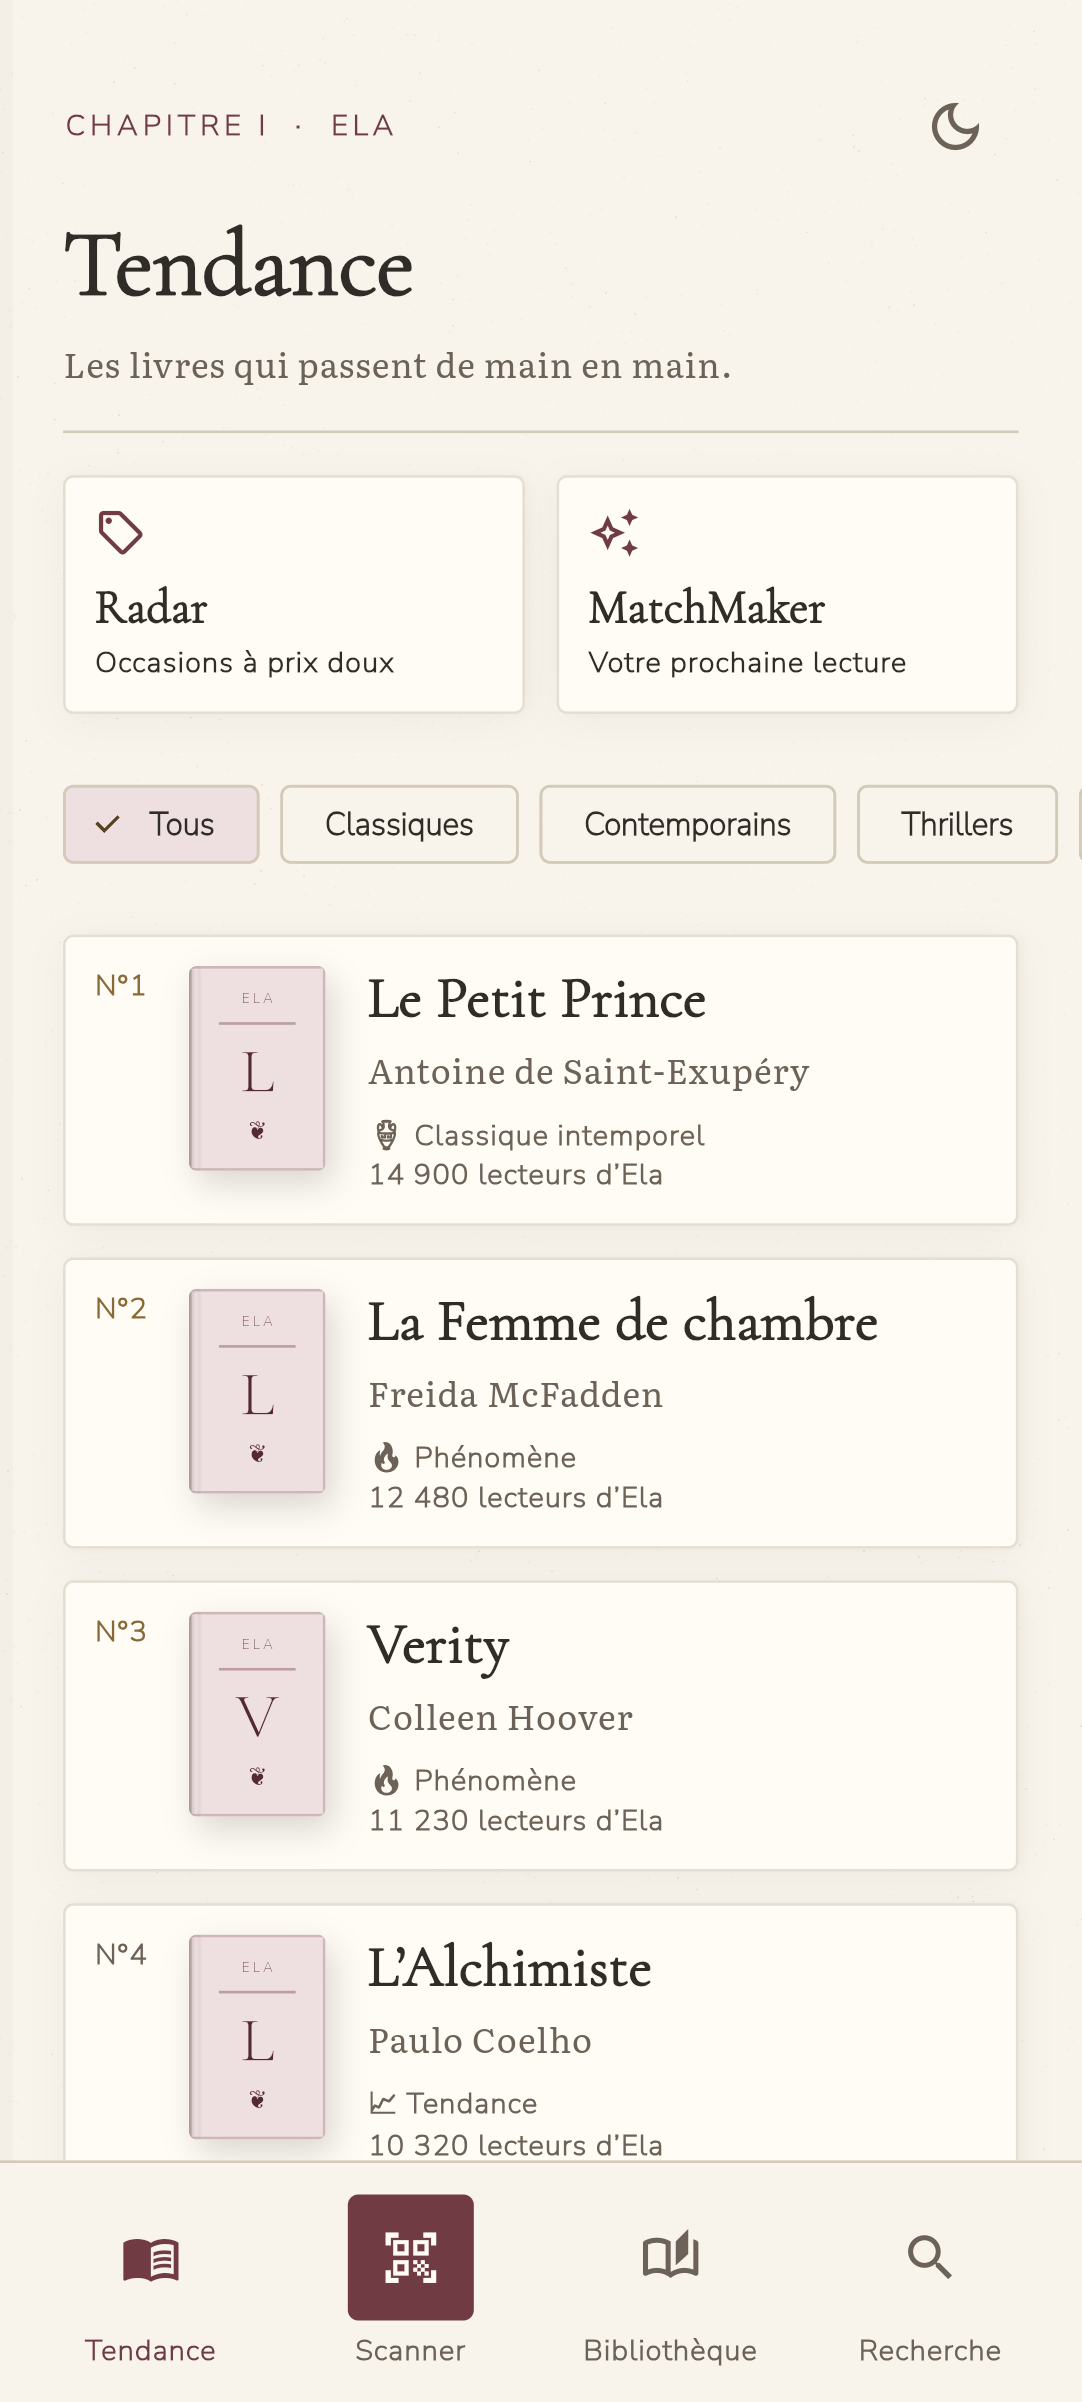
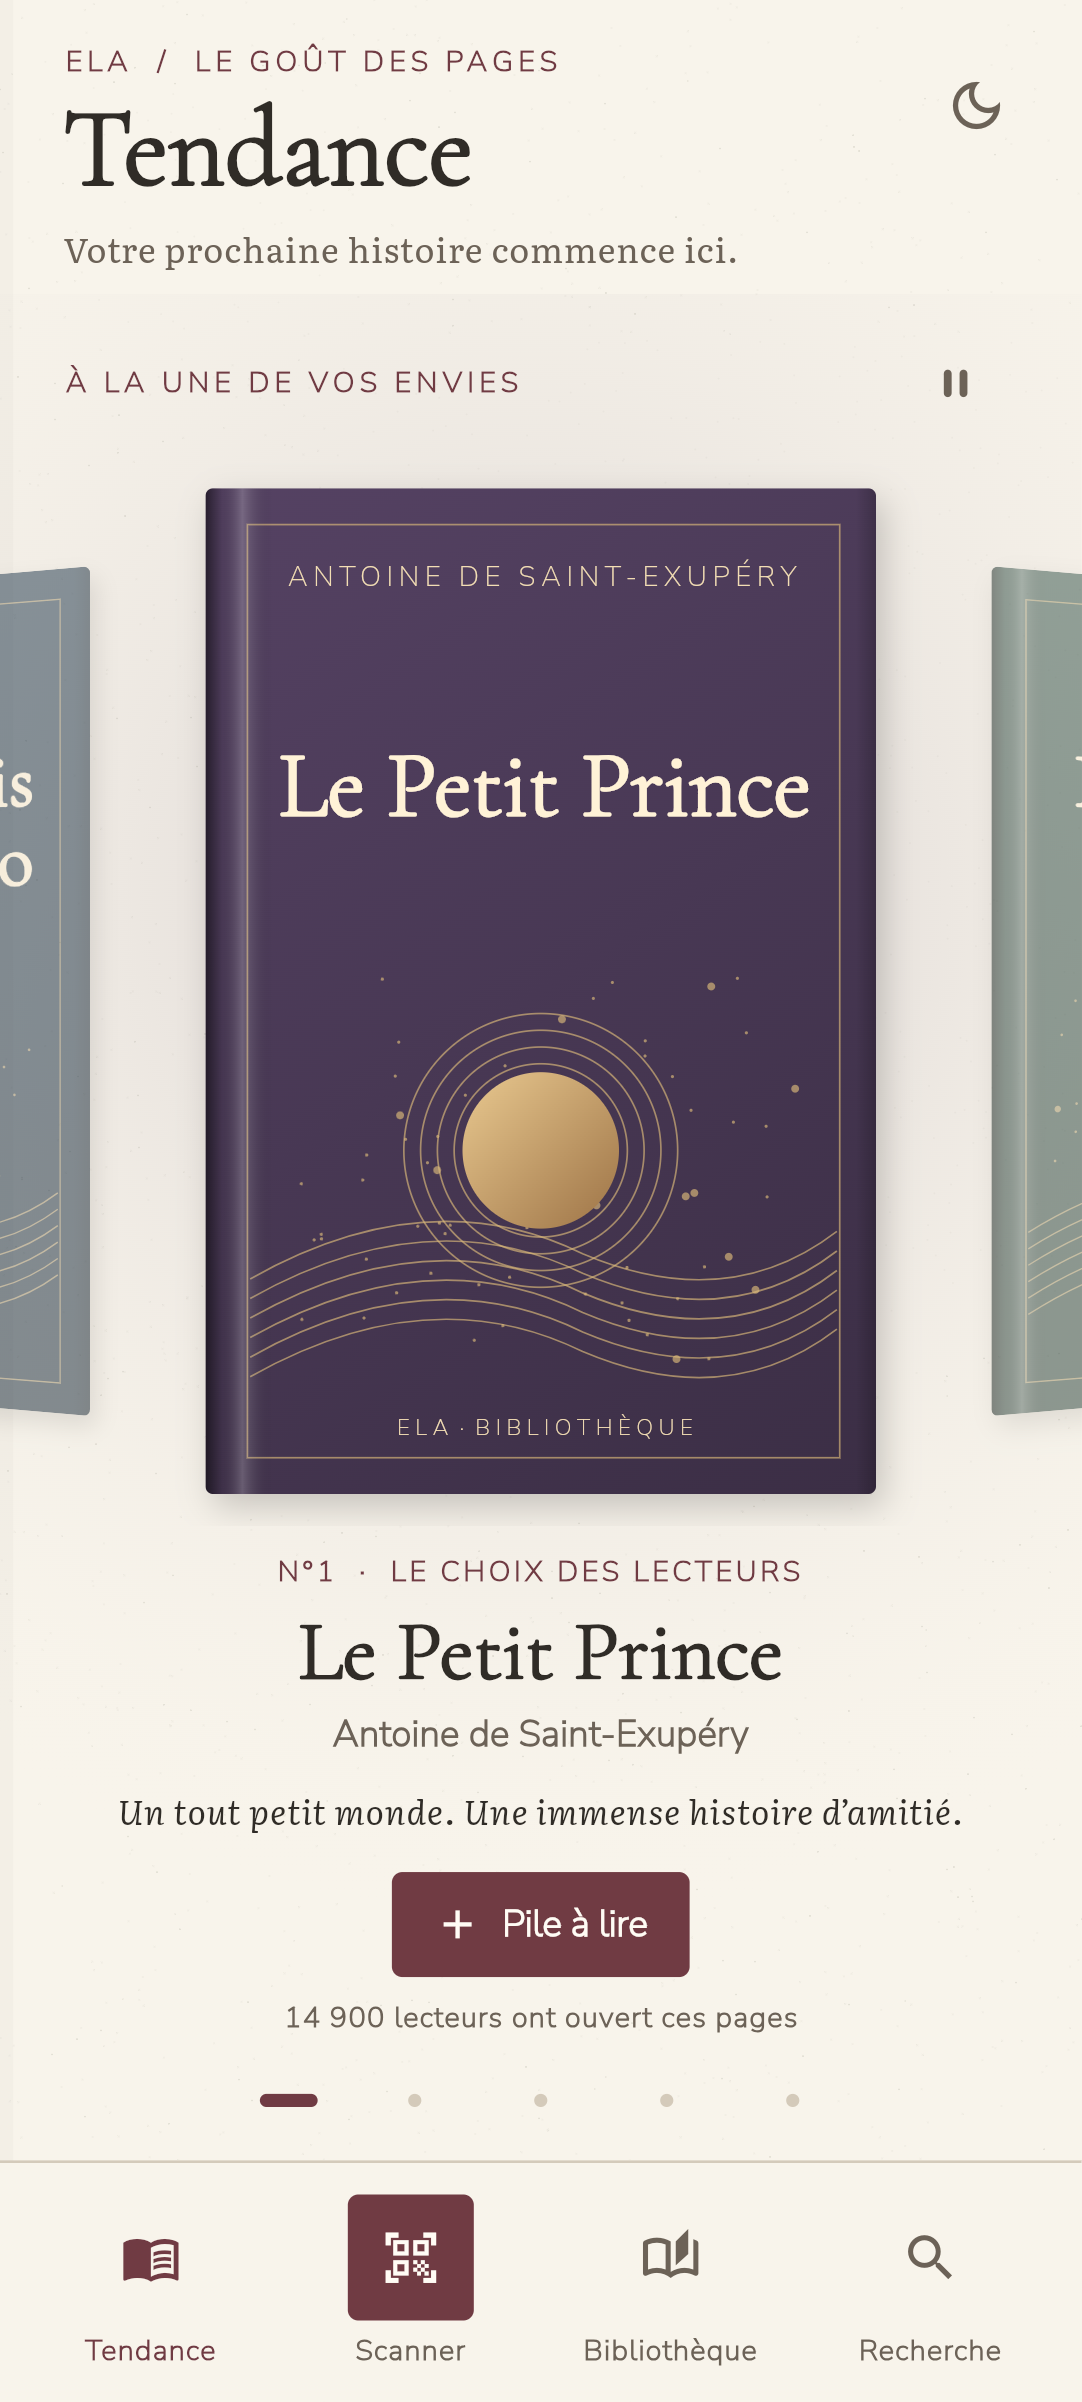
docs(tendance): deliver before-after captures and validate served web release

diff --git a/tools/screens/tendance_sheet.py b/tools/screens/tendance_sheet.py
@@ -1,0 +1,38 @@
+"""Planches des captures Flutter, sans retouche du contenu de l'interface."""
+from pathlib import Path
+from PIL import Image, ImageDraw, ImageFont
+
+ROOT = Path(__file__).resolve().parents[2]
+SCREENS = ROOT / 'docs/screens/tendance'
+FONT = str(ROOT / 'assets/fonts/NunitoSans.ttf')
+PAPER = '#f4efe4'
+INK = '#542a32'
+
+
+def sheet(cells, columns, width, destination):
+    font = ImageFont.truetype(FONT, 20)
+    height = round(width * 915 / 412)
+    margin, caption = 20, 48
+    rows = (len(cells) + columns - 1) // columns
+    board = Image.new('RGB', (columns * (width + margin) + margin,
+                              rows * (height + caption + margin) + margin), PAPER)
+    draw = ImageDraw.Draw(board)
+    for i, (label, source) in enumerate(cells):
+        x = margin + (i % columns) * (width + margin)
+        y = margin + (i // columns) * (height + caption + margin)
+        draw.text((x, y + 8), label, font=font, fill=INK)
+        with Image.open(SCREENS / source) as original:
+            thumbnail = original.convert('RGB').resize((width, height), Image.Resampling.LANCZOS)
+            board.paste(thumbnail, (x, y + caption))
+    board.save(SCREENS / destination, optimize=True)
+
+
+sheet([
+    ('Avant · jour', 'avant/jour/05-tendance.png'),
+    ('Après · jour', 'apres/jour/05-tendance.png'),
+    ('Avant · nuit', 'avant/nuit/05-tendance.png'),
+    ('Après · nuit', 'apres/nuit/05-tendance.png'),
+], 2, 380, 'avant-apres.png')
+for theme in ('jour', 'nuit'):
+    sheet([(f'{i} / 4 · {theme}', f'apres/{theme}/0{i}-hero.png') for i in range(1, 5)],
+          4, 280, f'sequence-{theme}.png')

diff --git a/docs/screens/tendance/README.md b/docs/screens/tendance/README.md
@@ -1,0 +1,60 @@
+# Tendance — carrousel héros
+
+[Avant / après jour et nuit](avant-apres.png) ·
+[Séquence jour](sequence-jour.png) · [Séquence nuit](sequence-nuit.png)
+
+- `avant/{jour,nuit}/05-tendance.png` : références capturées sur le commit
+  `62ca9a6`, avant toute modification de l'interface.
+- `apres/{jour,nuit}/05-tendance.png` : premier écran avec animations normales.
+- `apres/{jour,nuit}/01-hero.png` à `04-hero.png` : quatre positions successives,
+  obtenues par glissement. Les animations système sont désactivées pour ces
+  scènes et les goldens ; le bouton de pause est donc masqué.
+- `apres/{jour,nuit}/05-rayons.png` : les rayons sous le héros.
+- `compact-{jour,nuit}.png` : rayons en 360 × 640 dp, texte ×1,3.
+- `web/` : captures du build release réellement servi sur le port **8240**, gestes
+  tactiles Chromium, thème nuit, fiche ouverte depuis la quatrième couverture,
+  écran compact et contrôle séparé des libellés accessibles.
+
+Les captures Flutter utilisent les vraies polices, le catalogue fake existant
+et le véritable repli illustré hors ligne. Résolution normale : 412 × 915 dp,
+export à 2,625 pixels par dp. Les quatre goldens sont dans `test/goldens/`,
+à un pixel par dp ; les tests comparent leurs pixels à chaque exécution.
+Les planches sont des assemblages des captures, sans retouche de l'interface.
+
+## Reproduire
+
+```bash
+source scripts/env.sh
+flutter test test/tendance_carousel_test.dart --concurrency=1 \
+  --dart-define=TENDANCE_CAPTURE_DIR=docs/screens/tendance
+flutter test test/ui_capture_test.dart --concurrency=1 \
+  --plain-name '05-tendance' \
+  --dart-define=CAPTURE_DIR=docs/screens/tendance/apres
+flutter test test/ui_capture_test.dart --concurrency=1 \
+  --dart-define=COMPACT=true
+python3 tools/screens/tendance_sheet.py
+```
+
+Les références « avant » sont figées. Pour accepter une modification visuelle
+voulue, lancer le premier test avec `--update-goldens`, puis relire les images.
+Pillow est la seule dépendance Python, listée dans `tools/screens/requirements.txt`.
+
+Le contrôle Chromium utilise le serveur existant de ProxBoss ; il n'en démarre
+aucun. Les couvertures distantes sont bloquées pour vérifier le repli hors ligne.
+Les ressources de l'application sont chargées par HTTP depuis le vrai build :
+
+```bash
+ELA_PLAYWRIGHT_PATH=/chemin/vers/node_modules/playwright \
+ELA_CHROME_BIN=/chemin/vers/chrome node tools/tendance_web_smoke.cjs
+```
+
+`ELA_WEB_URL` peut remplacer `http://127.0.0.1:8240/`.
+[Rapport navigateur](web/validation.json) · [Sémantique](web/accessibilite.txt).
+
+Le carrousel marque une pause tant qu'un doigt est posé ou qu'un contrôle a
+le focus. Il reprend après 12 secondes d'inactivité ; le rythme normal est de
+7 à 12 secondes entre cartes, avec une transition de 850 ms. Il s'arrête également
+quand l'application passe en arrière-plan, dans un autre onglet, sur une fiche
+ou lorsque le héros n'est plus visible. La réduction des animations et la
+navigation accessible désactivent l'auto-défilement. Les indicateurs et les
+cartes restent utilisables à la main et au clavier.

diff --git a/docs/BRIEF-TENDANCE-CARROUSEL.md b/docs/BRIEF-TENDANCE-CARROUSEL.md
@@ -1,0 +1,17 @@
+# Brief : page Tendance « catchy » avec carrousel (demande Chef 31/10 02h)
+
+La page Tendance est LA plus importante de l app (premier écran). Retour de Chef : pas assez accrocheuse. Refais sa mise en page pour qu elle donne vraiment envie, en restant dans la DA « livre » (papier, typo littéraire, bordeaux) établie dans lib/core/design.
+
+## Attendu
+1. **Carrousel héros** en haut : grandes couvertures (≈ 60-70 % de la largeur), effet coverflow / perspective (la carte centrale grande et nette, voisines plus petites, inclinées, atténuées), défilement fluide au doigt avec snap, indicateurs de page, défilement auto lent (pause au toucher). Titre, auteur, accroche courte et badge (« N°1 », « En hausse », « Coup de cœur ») sous la carte active, avec transition animée au changement. Fond qui reprend la teinte dominante de la couverture active (dégradé doux), animé.
+2. Tap sur la carte -> fiche de lecture avec transition Hero sur la couverture. Bouton rapide « + Pile à lire ».
+3. Sous le héros : rangées horizontales thématiques défilables (ex. « En hausse cette semaine », « Classiques qu on relit », « Courts, à lire en une soirée »), petites couvertures, numéros de classement stylés façon typographie de livre pour le top 10.
+4. Micro-animations soignées (apparition en cascade, parallaxe légère au scroll), 60 fps visés, accessibilité conservée (Semantics, texte ×1,3, réduction des animations si l OS le demande -> pas d auto-défilement).
+5. Couvertures : utiliser les vraies si dispo, sinon la couverture générée existante (book_cover.dart) rendue plus riche. Données fake existantes acceptées (étoffer demo_books si nécessaire pour remplir le carrousel et les rangées).
+6. Mode jour ET nuit, pas d overflow en 360x640.
+
+## Livrables
+- Tests/goldens à jour, `flutter analyze` propre, tests verts.
+- Captures avant/après de Tendance (jour + nuit) + une petite séquence de 3-4 captures du carrousel à différentes positions dans docs/screens/tendance/.
+- Rebuild web (build/web, servi par ProxBoss sur :8240) puis APK dist/ela.apk. Commits séparés, push. Mettre à jour docs/VALIDATION-UI.md.
+Commandes lourdes séquentielles (RAM LXC limitée), pas de daemon Gradle.

diff --git a/README.md b/README.md
@@ -19,8 +19,7 @@ flutter build apk --debug      # → build/app/outputs/flutter-apk/app-debug.apk
 ### Tests
 
 ```bash
-flutter test --concurrency=1   # 158 tests : 29 historiques + 120 scènes
-                               # + configuration du banc + 8 régressions
+flutter test --concurrency=1   # 169 tests, dont le carrousel et 4 goldens
 flutter analyze                # zéro issue
 ```
 
@@ -29,8 +28,10 @@ variable d'env `FLUTTER_TEST` (`lib/core/flags.dart`).
 
 ## Ce que fait l'app (phase 1)
 
-- **Tendance** — listes par catégorie, rangs N°1-3 dorés, apparition en
-  cascade, squelettes « encre » pendant la curation simulée.
+- **Tendance** — héros coverflow tactile, ambiance issue de la couverture,
+  défilement auto avec pause et réduction des animations, transition Hero vers
+  la fiche, ajout rapide PAL et rayons horizontaux (top 10, classiques, courts).
+  Filtres par catégorie, jour/nuit et repli illustré hors ligne.
 - **Scanner** — EAN-13 (`mobile_scanner`) avec halo « lampe de chevet »,
   dégradation propre sans caméra/permission, saisie ISBN manuelle ;
   l'ISBN connu ouvre la fiche, l'inconnu est averti.
@@ -54,6 +55,11 @@ variable d'env `FLUTTER_TEST` (`lib/core/flags.dart`).
 
 
 ## Refonte « livre » et livrables visuels
+
+**Nouvelle Tendance** : [avant / après](docs/screens/tendance/avant-apres.png) ·
+[séquence du carrousel](docs/screens/tendance/sequence-jour.png) ·
+[captures et reproduction](docs/screens/tendance/README.md).
+Le build `build/web` est servi par le serveur ProxBoss existant sur **:8240**.
 
 [Avant / après](docs/screens/avant-apres.png) ·
 [Planche jour](docs/screens/planche-jour.png) ·

diff --git a/docs/screens/README.md b/docs/screens/README.md
@@ -1,5 +1,10 @@
 # Carnet visuel Ela
 
+La nouvelle page **Tendance avec carrousel** a son [carnet dédié](tendance/README.md),
+avec références avant, captures jour/nuit, quatre positions successives,
+goldens et validation du build réellement servi sur **:8240**.
+Les 120 scènes ci-dessous documentent la refonte « livre » précédente.
+
 - [Avant / après — six parcours](avant-apres.png)
 - [Planche jour — 60 scènes](planche-jour.png)
 - [Planche nuit — 60 scènes](planche-nuit.png)
